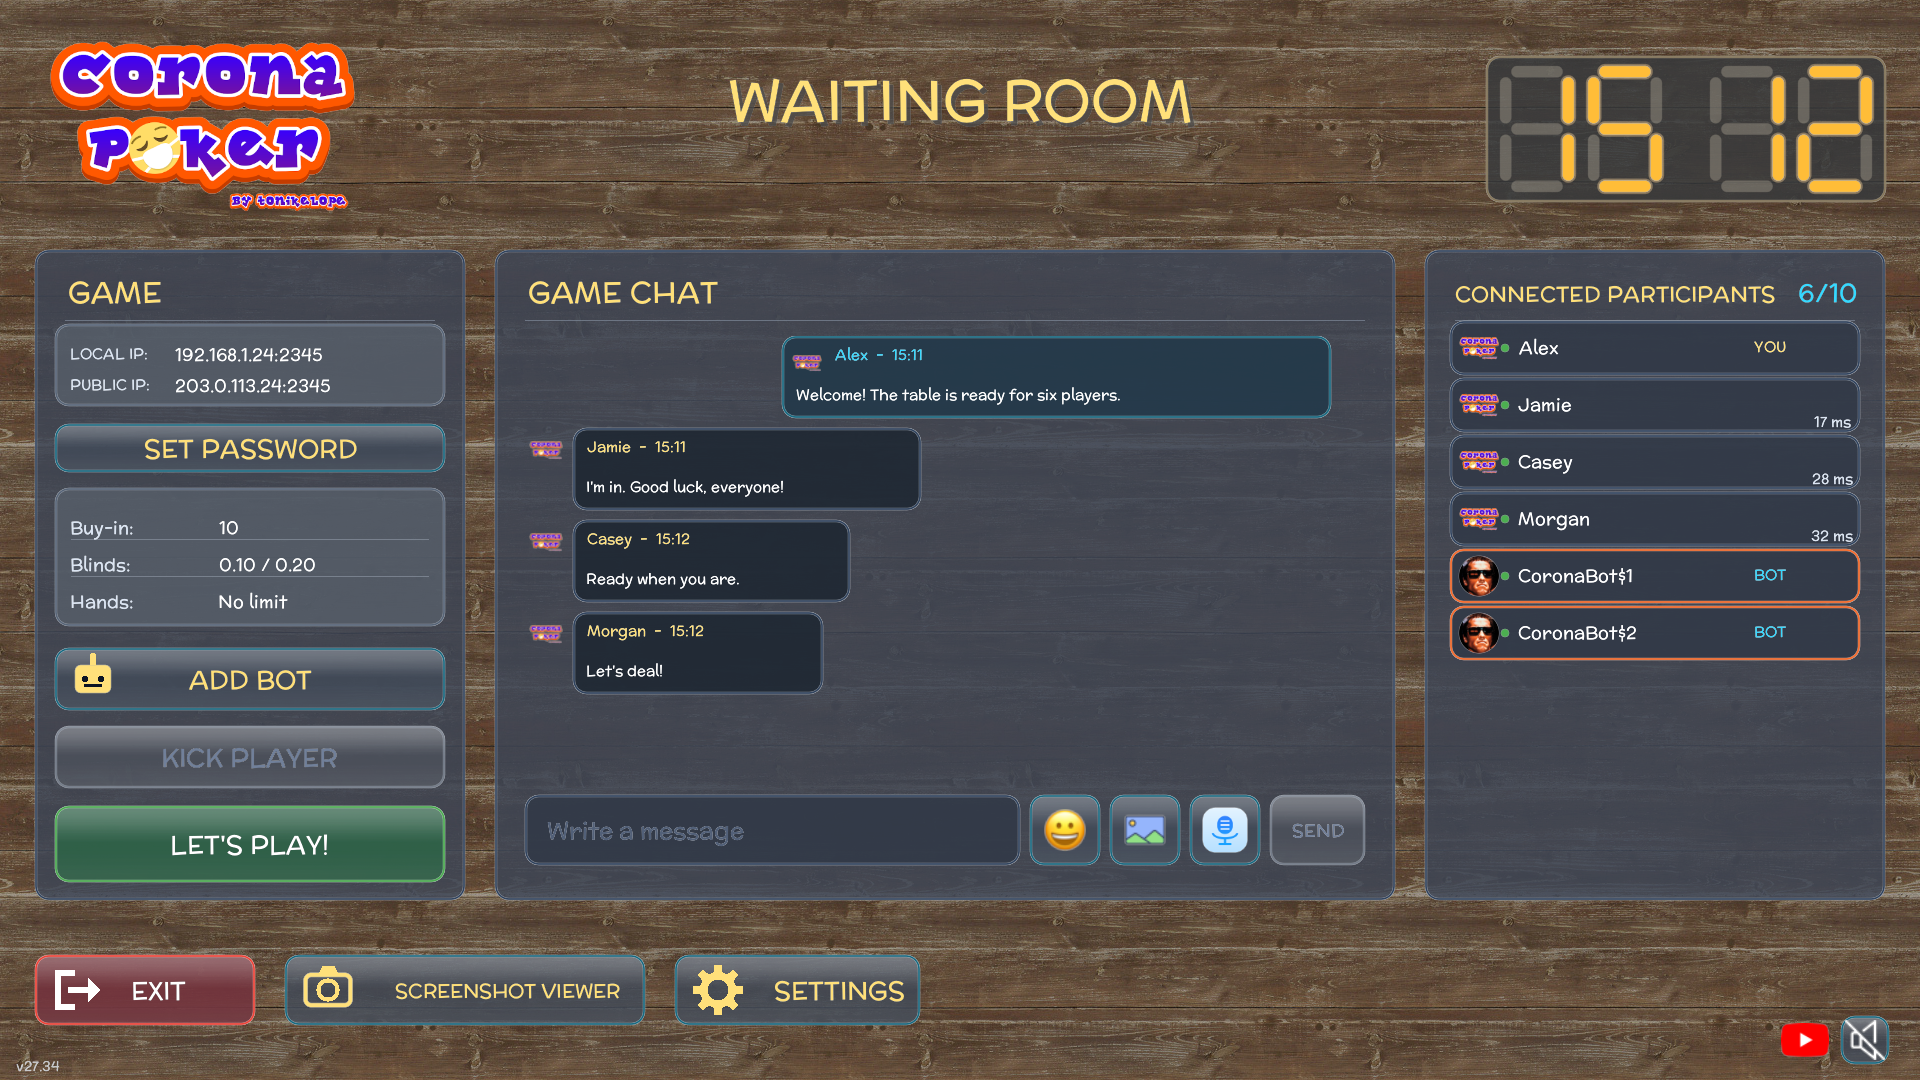
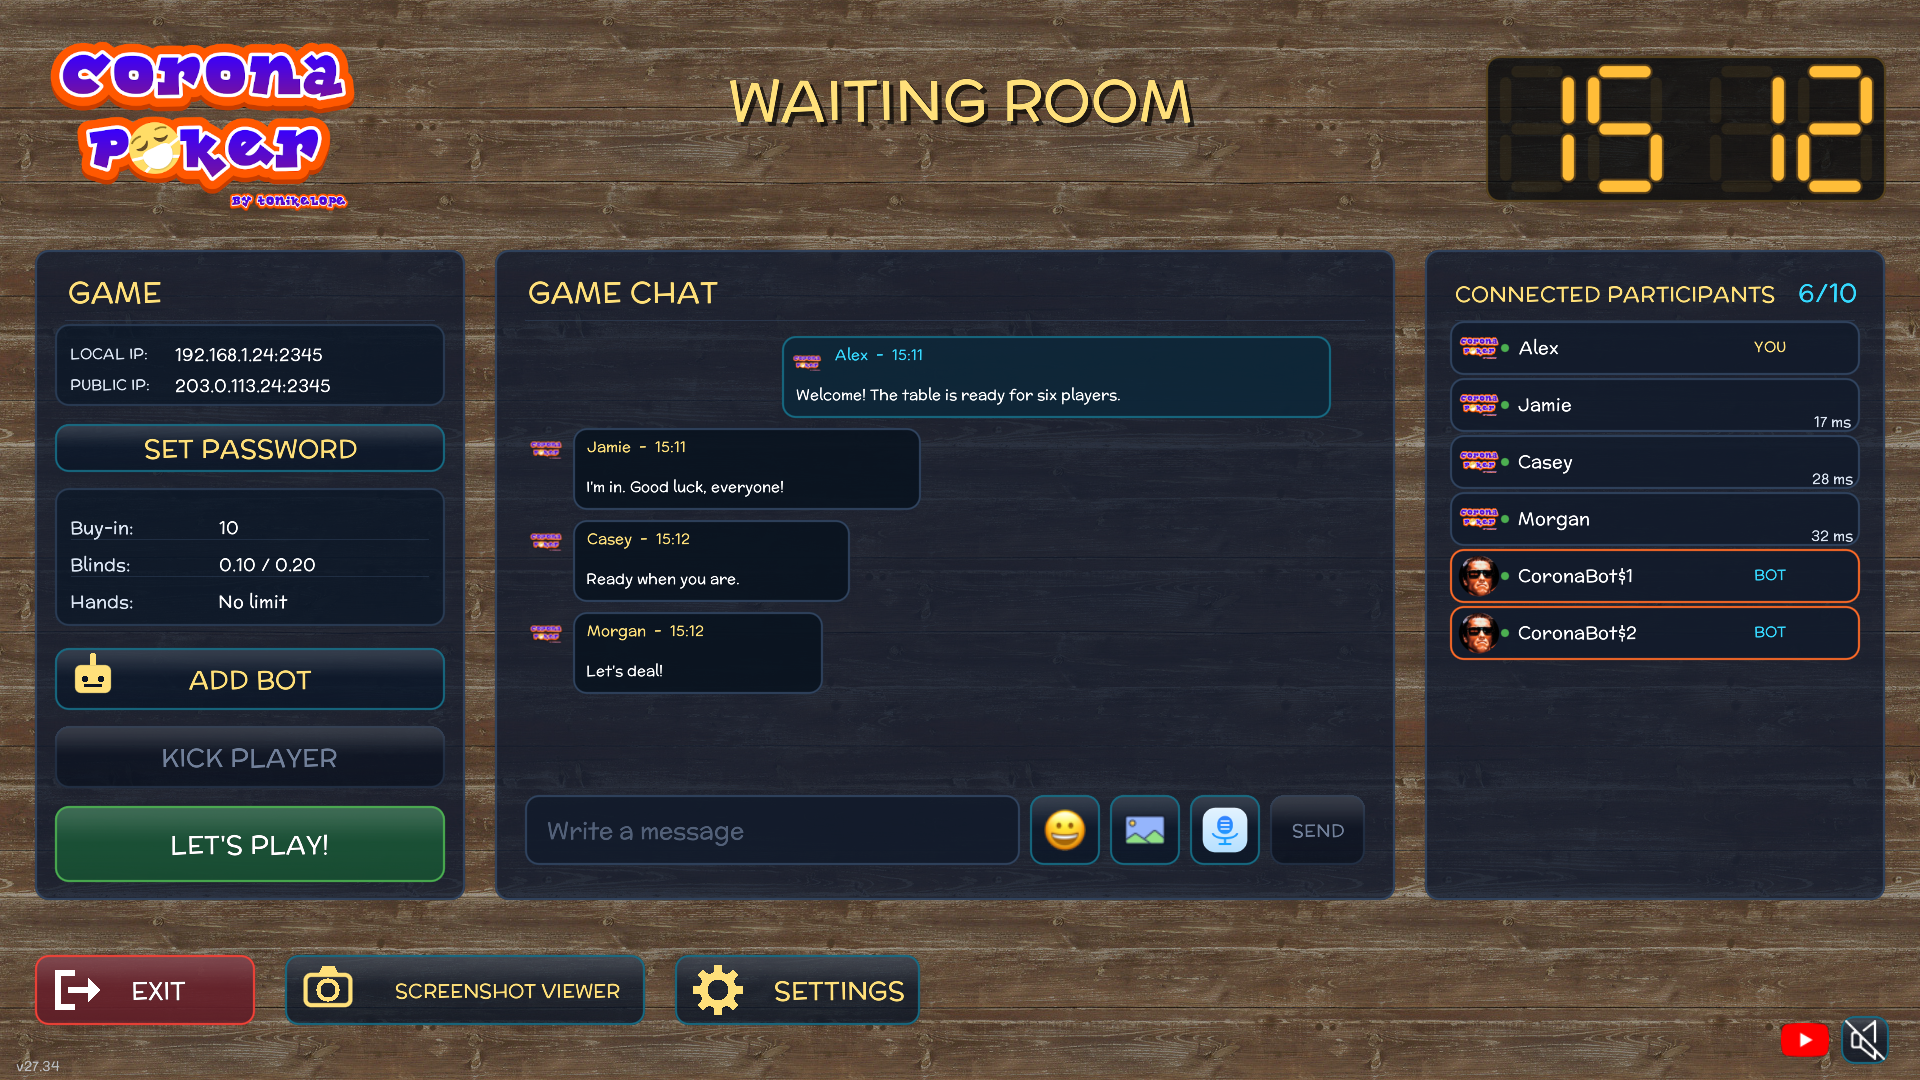
Save opaque screenshots without changing rendered colors

diff --git a/modules/coronapoker-gdx/src/main/java/com/tonikelope/coronapoker/gdx/CoronaPokerGdxTable.java b/modules/coronapoker-gdx/src/main/java/com/tonikelope/coronapoker/gdx/CoronaPokerGdxTable.java
@@ -23,7 +23,6 @@ import com.badlogic.gdx.graphics.Cursor;
 import com.badlogic.gdx.graphics.GL20;
 import com.badlogic.gdx.graphics.OrthographicCamera;
 import com.badlogic.gdx.graphics.Pixmap;
-import com.badlogic.gdx.graphics.PixmapIO;
 import com.badlogic.gdx.graphics.Texture;
 import com.badlogic.gdx.graphics.Texture.TextureFilter;
 import com.badlogic.gdx.graphics.Texture.TextureWrap;
@@ -41,7 +40,6 @@ import com.badlogic.gdx.math.Matrix4;
 import com.badlogic.gdx.math.Rectangle;
 import com.badlogic.gdx.math.Vector2;
 import com.badlogic.gdx.utils.Align;
-import com.badlogic.gdx.utils.BufferUtils;
 import com.badlogic.gdx.utils.Align;
 import com.badlogic.gdx.utils.ScreenUtils;
 import com.badlogic.gdx.utils.viewport.ExtendViewport;
@@ -23435,15 +23433,7 @@ final class CoronaPokerGdxTable extends ApplicationAdapter {
         Thread writer = new Thread(() -> {
             boolean saved = false;
             try {
-                Files.createDirectories(file.getParent());
-                Pixmap pixmap = new Pixmap(width, height,
-                        Pixmap.Format.RGBA8888);
-                try {
-                    BufferUtils.copy(rgba, 0, pixmap.getPixels(), rgba.length);
-                    PixmapIO.writePNG(new FileHandle(file.toFile()), pixmap);
-                } finally {
-                    pixmap.dispose();
-                }
+                GdxScreenshotStore.writeOpaquePng(file, width, height, rgba);
                 saved = true;
             } catch (RuntimeException | IOException failure) {
                 LOGGER.log(Level.WARNING, "Could not save screenshot", failure);

diff --git a/modules/coronapoker-gdx/src/test/java/com/tonikelope/coronapoker/gdx/GdxScreenshotStoreTest.java b/modules/coronapoker-gdx/src/test/java/com/tonikelope/coronapoker/gdx/GdxScreenshotStoreTest.java
@@ -1,12 +1,16 @@
 package com.tonikelope.coronapoker.gdx;
 
+import static org.junit.jupiter.api.Assertions.assertArrayEquals;
 import static org.junit.jupiter.api.Assertions.assertEquals;
 import static org.junit.jupiter.api.Assertions.assertFalse;
 import static org.junit.jupiter.api.Assertions.assertTrue;
 
+import com.badlogic.gdx.utils.GdxNativesLoader;
+import java.awt.image.BufferedImage;
 import java.nio.file.Files;
 import java.nio.file.Path;
 import java.util.List;
+import javax.imageio.ImageIO;
 import org.junit.jupiter.api.Test;
 import org.junit.jupiter.api.io.TempDir;
 
@@ -14,6 +18,27 @@ final class GdxScreenshotStoreTest {
 
     @TempDir
     Path directory;
+
+    @Test
+    void savedPngIsOpaqueAndPreservesRenderedRgb() throws Exception {
+        GdxNativesLoader.load();
+        Path file = directory.resolve("Screenshots")
+                .resolve(GdxScreenshotStore.filename(100L));
+        byte[] rgba = {
+            0x2e, 0x36, 0x44, (byte) 0xc5,
+            (byte) 0xe7, 0x14, 0x7f, 0,
+            0x00, (byte) 0xa3, (byte) 0xff, 1,
+            0x13, 0x38, (byte) 0x91, (byte) 0xff
+        };
+
+        GdxScreenshotStore.writeOpaquePng(file, 2, 2, rgba);
+
+        BufferedImage screenshot = ImageIO.read(file.toFile());
+        assertEquals(2, screenshot.getWidth());
+        assertEquals(2, screenshot.getHeight());
+        assertArrayEquals(new int[]{0xff2e3644, 0xffe7147f, 0xff00a3ff, 0xff133891},
+                screenshot.getRGB(0, 0, 2, 2, null, 0, 2));
+    }
 
     @Test
     void catalogAcceptsOnlyCoronaPokerPngScreenshots() throws Exception {

diff --git a/modules/coronapoker-gdx/src/main/java/com/tonikelope/coronapoker/gdx/GdxScreenshotStore.java b/modules/coronapoker-gdx/src/main/java/com/tonikelope/coronapoker/gdx/GdxScreenshotStore.java
@@ -1,6 +1,10 @@
 /* Copyright (C) 2026 tonikelope; GPLv3 or later. */
 package com.tonikelope.coronapoker.gdx;
 
+import com.badlogic.gdx.files.FileHandle;
+import com.badlogic.gdx.graphics.Pixmap;
+import com.badlogic.gdx.graphics.PixmapIO;
+import com.badlogic.gdx.utils.BufferUtils;
 import java.io.IOException;
 import java.nio.file.Files;
 import java.nio.file.Path;
@@ -11,7 +15,7 @@ import java.util.Date;
 import java.util.List;
 import java.util.Locale;
 
-/** Shared screenshot catalog used by every GDX entry point. */
+/** Screenshot storage and catalog for GDX. */
 final class GdxScreenshotStore {
 
     private static final String PREFIX = "coronapoker_screenshot_";
@@ -30,6 +34,22 @@ final class GdxScreenshotStore {
 
     static String filename(long timestamp) {
         return PREFIX + timestamp + SUFFIX;
+    }
+
+    static void writeOpaquePng(Path file, int width, int height, byte[] rgba)
+            throws IOException {
+        Files.createDirectories(file.getParent());
+        // The RGB channels already contain the rendered frame.
+        for (int alpha = 3; alpha < rgba.length; alpha += 4) {
+            rgba[alpha] = (byte) 0xff;
+        }
+        Pixmap pixmap = new Pixmap(width, height, Pixmap.Format.RGBA8888);
+        try {
+            BufferUtils.copy(rgba, 0, pixmap.getPixels(), rgba.length);
+            PixmapIO.writePNG(new FileHandle(file.toFile()), pixmap);
+        } finally {
+            pixmap.dispose();
+        }
     }
 
     static boolean isScreenshotFile(Path file) {
